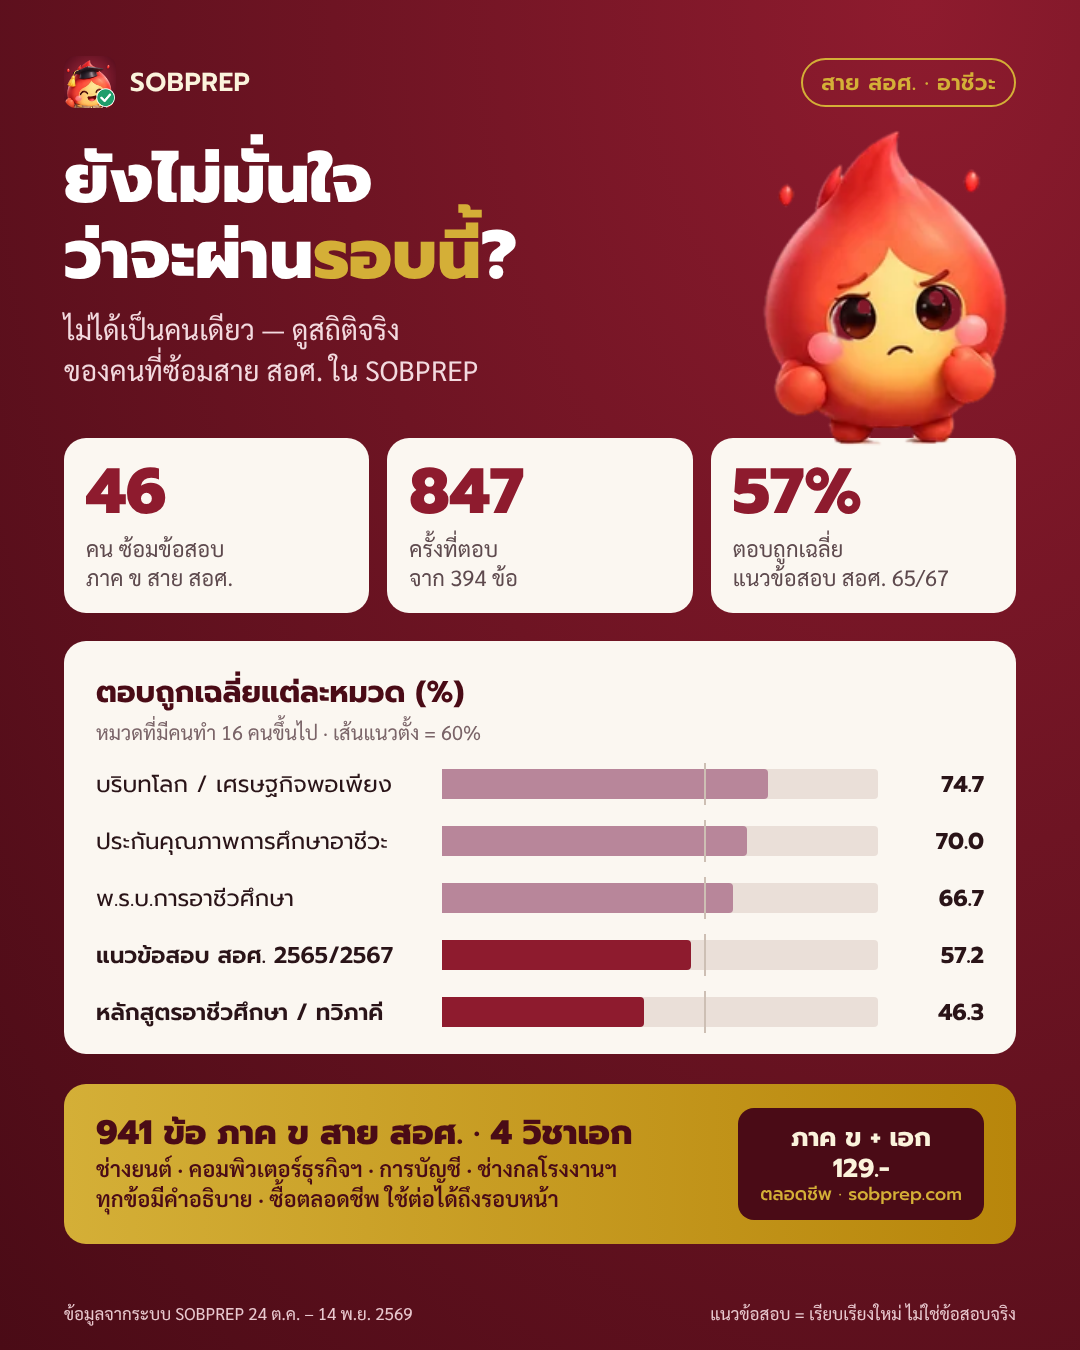
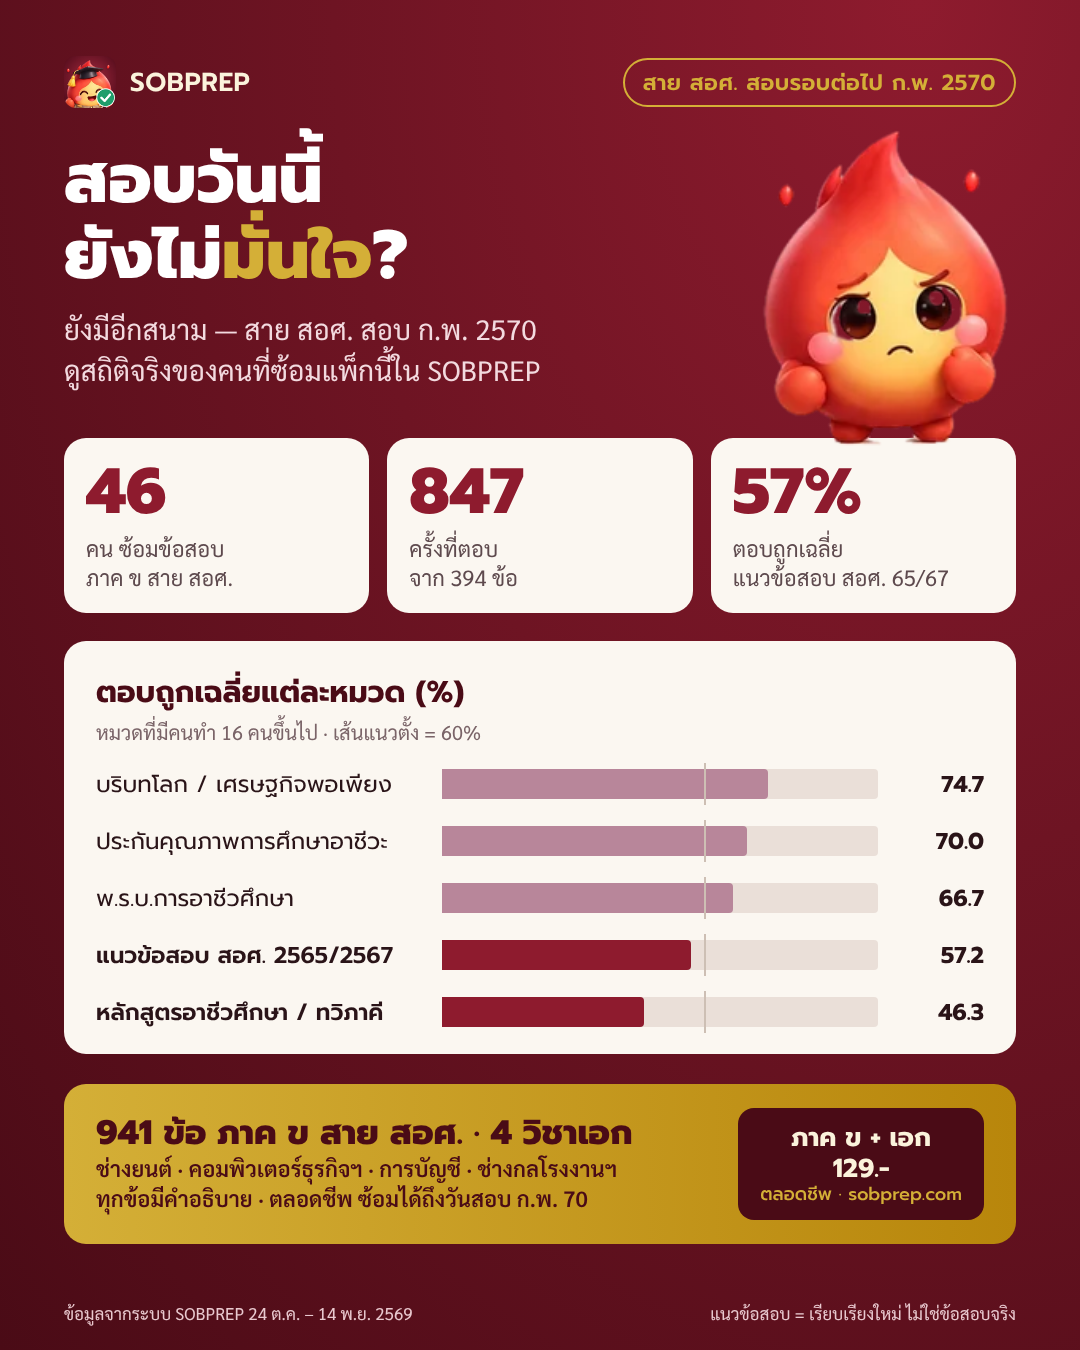
prep: infographic retargeted — unsure after today's exam → vocational round Feb 2570
Claude-Session: https://claude.ai/code/session_018dKBF3yx6GC4DbqkRgewhg

diff --git a/scripts/prep/promo/sobprep-vec-stats.html b/scripts/prep/promo/sobprep-vec-stats.html
@@ -34,10 +34,10 @@ h1 em{font-style:normal;color:#D4AF37}
 .cta .r small{display:block;font-size:18px;font-weight:500;color:#D4AF37}
 .foot{position:absolute;left:64px;right:64px;bottom:26px;color:#E9C9CF;font-size:17px;font-family:Sarabun,sans-serif;display:flex;justify-content:space-between}
 </style></head><body><div class="wrap">
-<div class="top"><img src="../../../public/prep/welcome/img/logo.png">SOBPREP<div class="tag">สาย สอศ. · อาชีวะ</div></div>
+<div class="top"><img src="../../../public/prep/welcome/img/logo.png">SOBPREP<div class="tag">สาย สอศ. สอบรอบต่อไป ก.พ. 2570</div></div>
 <img class="mascot" src="../../../public/prep/welcome/img/mascot-none-think.webp">
-<h1>ยังไม่มั่นใจ<br>ว่าจะผ่าน<em>รอบนี้</em>?</h1>
-<p class="sub">ไม่ได้เป็นคนเดียว — ดูสถิติจริง<br>ของคนที่ซ้อมสาย สอศ. ใน SOBPREP</p>
+<h1>สอบวันนี้<br>ยังไม่<em>มั่นใจ</em>?</h1>
+<p class="sub">ยังมีอีกสนาม — สาย สอศ. สอบ ก.พ. 2570<br>ดูสถิติจริงของคนที่ซ้อมแพ็กนี้ใน SOBPREP</p>
 <div class="stats">
  <div class="st"><b>46</b><span>คน ซ้อมข้อสอบ<br>ภาค ข สาย สอศ.</span></div>
  <div class="st"><b>847</b><span>ครั้งที่ตอบ<br>จาก 394 ข้อ</span></div>
@@ -52,7 +52,7 @@ h1 em{font-style:normal;color:#D4AF37}
  <div class="row hi"><div class="lab">แนวข้อสอบ สอศ. 2565/2567</div><div class="track"><div class="bar" style="width:57.2%"></div><i class="tick" style="left:60%"></i></div><div class="val">57.2</div></div>
  <div class="row hi"><div class="lab">หลักสูตรอาชีวศึกษา / ทวิภาคี</div><div class="track"><div class="bar" style="width:46.3%"></div><i class="tick" style="left:60%"></i></div><div class="val">46.3</div></div>
 </div>
-<div class="cta"><div class="l"><b>941 ข้อ ภาค ข สาย สอศ. · 4 วิชาเอก</b><span>ช่างยนต์ · คอมพิวเตอร์ธุรกิจฯ · การบัญชี · ช่างกลโรงงานฯ<br>ทุกข้อมีคำอธิบาย · ซื้อตลอดชีพ ใช้ต่อได้ถึงรอบหน้า</span></div>
+<div class="cta"><div class="l"><b>941 ข้อ ภาค ข สาย สอศ. · 4 วิชาเอก</b><span>ช่างยนต์ · คอมพิวเตอร์ธุรกิจฯ · การบัญชี · ช่างกลโรงงานฯ<br>ทุกข้อมีคำอธิบาย · ตลอดชีพ ซ้อมได้ถึงวันสอบ ก.พ. 70</span></div>
  <div class="r">ภาค ข + เอก<br>129.-<small>ตลอดชีพ · sobprep.com</small></div></div>
 <div class="foot"><span>ข้อมูลจากระบบ SOBPREP 24 ต.ค. – 14 พ.ย. 2569</span><span>แนวข้อสอบ = เรียบเรียงใหม่ ไม่ใช่ข้อสอบจริง</span></div>
 </div></body></html>
